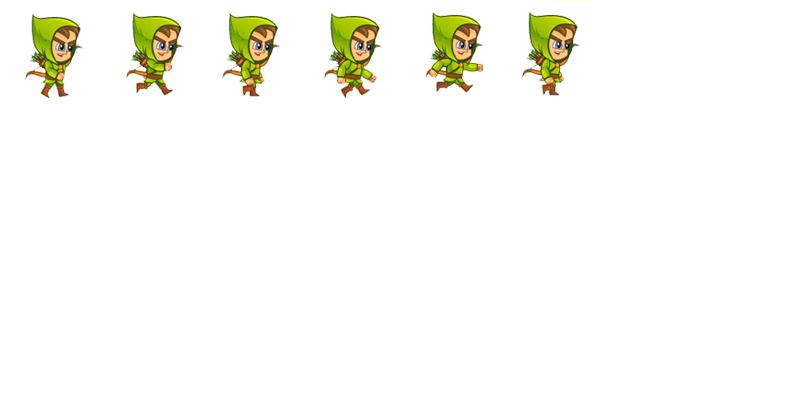
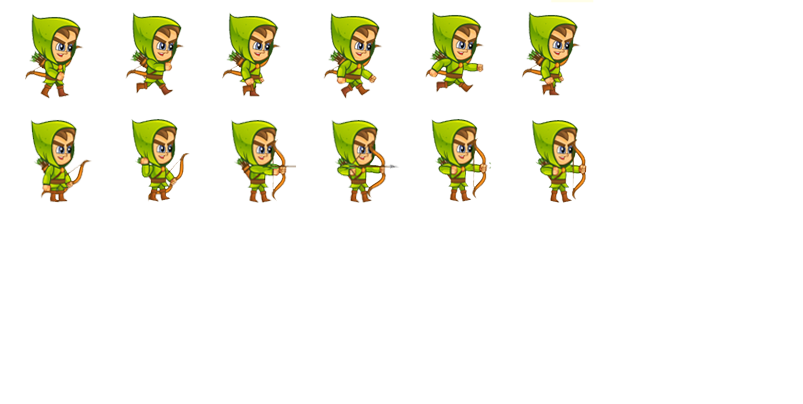
1

diff --git a/Main_Scene.py b/Main_Scene.py
@@ -113,22 +113,22 @@ class Hero_Archer:
         self.life_time = 0.0
         self.total_frames = 0.0
         self.dir = 0.8
-        self.state = self.WALK
+        self.state = self.ATTACK
         if Hero_Archer.h_image == None:
             Hero_Archer.h_image = load_image('Hero/Archer_sheet.png')
 
     def update(self, frame_time):
         distance = Hero_Archer.RUN_SPEED_PPS * frame_time
-        self.total_frames += Hero_Knight.FRAMES_PER_ACTION * Hero_Knight.ACTION_PER_TIME * frame_time
+        self.total_frames += Hero_Archer.FRAMES_PER_ACTION * Hero_Archer.ACTION_PER_TIME * frame_time
         if self.state == self.WALK:
             self.frame = int(self.total_frames) % 6
         elif self.state == self.ATTACK:
-            self.frame = int(self.total_frames) % 4
+            self.frame = int(self.total_frames) % 6
         self.x += (self.dir * distance)
 
-        if self.x > 950:
+        if self.x > 300:
             self.dir = 0
-            self.x = random.randint(1100, 1103)
+            self.x = random.randint(950, 953)
             self.state = self.ATTACK
         elif self.x < 100:
             self.dir = 0.8
@@ -138,6 +138,51 @@ class Hero_Archer:
 
     def draw(self):
         self.h_image.clip_draw(self.frame*100, self.state*100, 110, 100, self.x, self.y)
+
+class Monster_Skleton:
+    PIXEL_PER_METER = (10.0 / 0.3)           # 10 pixel 30 cm
+    RUN_SPEED_KMPH = 5.0                    # Km / Hour
+    RUN_SPEED_MPM = (RUN_SPEED_KMPH * 1000.0 / 60.0)
+    RUN_SPEED_MPS = (RUN_SPEED_MPM / 60.0)
+    RUN_SPEED_PPS = (RUN_SPEED_MPS * PIXEL_PER_METER)
+
+    TIME_PER_ACTION = 0.5
+    ACTION_PER_TIME = 0.5 / TIME_PER_ACTION
+    FRAMES_PER_ACTION = 6
+    m_image = None
+    WALK, ATTACK, DAMAGE, DIE = 3,2,1,0
+
+    def __init__(self):
+        self.x, self.y = 1200, 300
+        self.frame = random.randint(0, 2)
+        self.life_time = 0.0
+        self.total_frames = 0.0
+        self.dir = -0.8
+        self.state = self.WALK
+        if Monster_Skleton.m_image == None:
+            Monster_Skleton.m_image = load_image('Monster/Skeleton_sheet.png')
+
+    def update(self, frame_time):
+        distance = Monster_Skleton.RUN_SPEED_PPS * frame_time
+        self.total_frames += Monster_Skleton.FRAMES_PER_ACTION * Monster_Skleton.ACTION_PER_TIME * frame_time
+        if self.state == self.WALK:
+            self.frame = int(self.total_frames) % 6
+        elif self.state == self.ATTACK:
+            self.frame = int(self.total_frames) % 4
+        self.x += (self.dir * distance)
+
+        if self.x > 1200:
+            self.dir = -0.8
+            self.x = random.randint(1100, 1103)
+            self.state = self.WALK
+        elif self.x < 100:
+            self.dir = 0
+            self.x = 100
+            self.state = self.ATTACK
+
+
+    def draw(self):
+        self.m_image.clip_draw(self.frame*100, self.state*100, 110, 100, self.x, self.y)
 
 class Magic_Meteor:
     TIME_PER_ACTION = 0.5
@@ -166,6 +211,7 @@ class Magic_Meteor:
 
 def enter():
     global h_Knight, h_Archer, font
+    global m_Skeleton
     global u_Magician
     global stage_background, gameUI, myCastle, enemyCastle, cloud, ui_button
     global my_team
@@ -178,8 +224,9 @@ def enter():
     u_Magician = User_Magician()
     h_Knight = Hero_Knight()
     h_Archer = Hero_Archer()
-    m_meteor = Magic_Meteor()
 
+    m_meteor = Magic_Meteor()
+    m_Skeleton = Monster_Skleton()
     ui_button = load_image('UI/UI_Button.png')
     gameUI = load_image('UI/GameUI.png')
     stage_background = load_image('Map/Stage2_bkg.png')
@@ -201,7 +248,7 @@ def exit():
     del(cloud)
     del(gameUI)
     del(m_meteor)
-
+    del(m_Skeleton)
 def pause():
     pass
 
@@ -265,6 +312,7 @@ def update(frame_time):
     h_Knight.update(frame_time)
     u_Magician.update(frame_time)
     m_meteor.update(frame_time)
+    m_Skeleton.update(frame_time)
     gold += (frame_time * 100)
     if timer == False:
         chk_time += frame_time
@@ -283,14 +331,15 @@ def draw(frame_time):
     enemyCastle.draw(1200, 355)
     ui_button.draw(1230, 690)
     u_Magician.draw()
+    m_Skeleton.draw()
     font.draw(551, 56, '%1.f' % gold)
     for m_meteor in my_magic:
         m_meteor.update(frame_time)
         m_meteor.draw()
 
-    for h_Archer in my_team:
-        h_Archer.update(frame_time)
-        h_Archer.draw()
+    for h_Knight in my_team:
+        h_Knight.update(frame_time)
+        h_Knight.draw()
 
     for h_Archer in my_team:
         h_Archer.update(frame_time)
